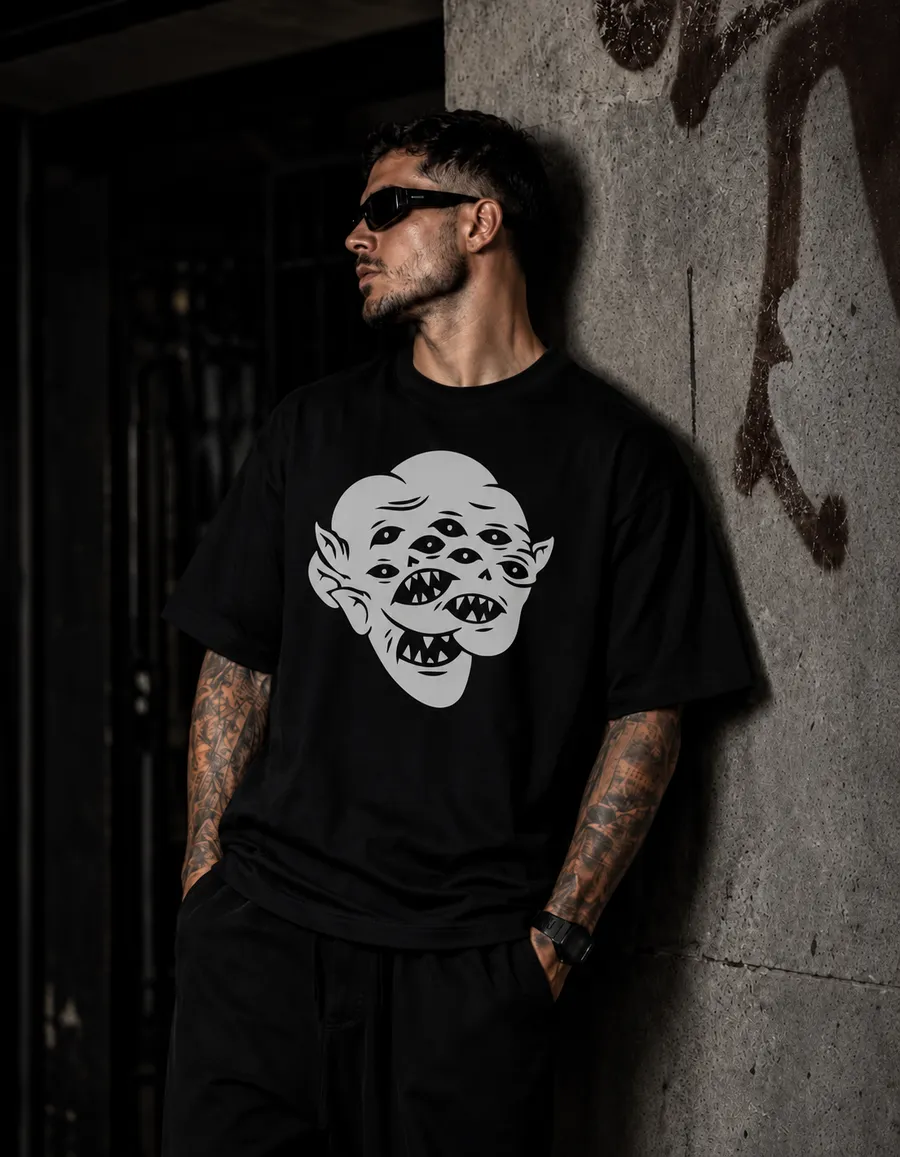
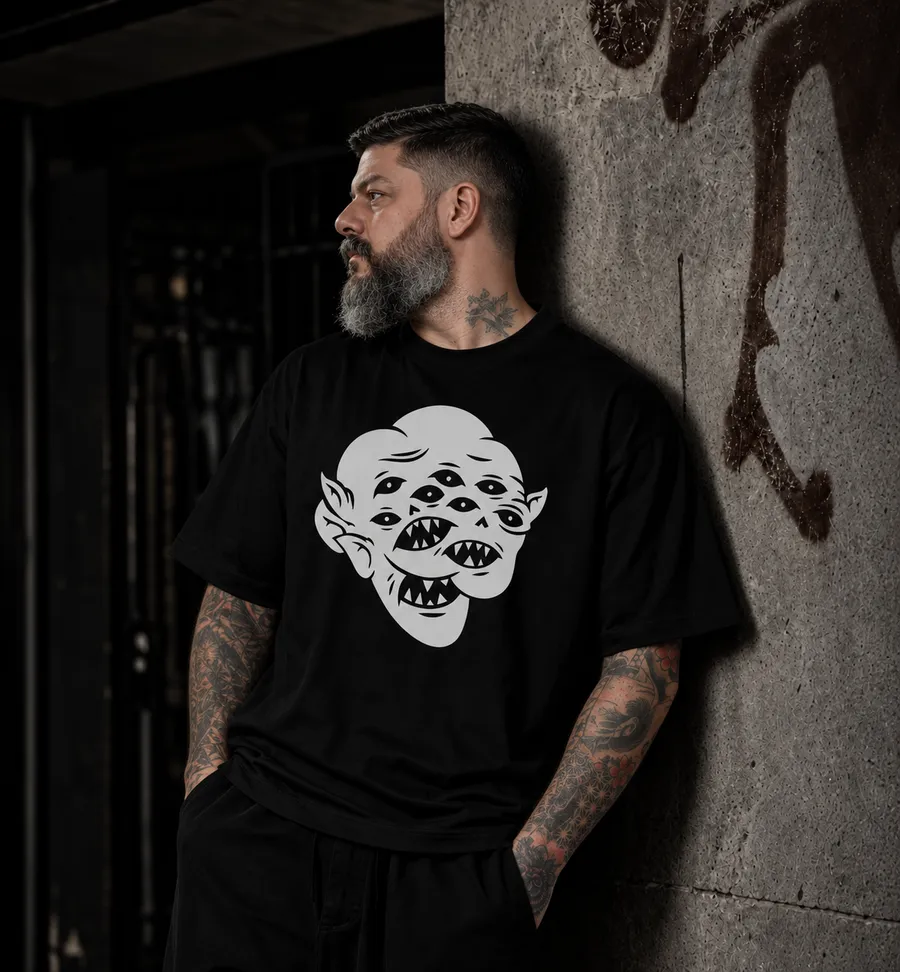
playground: a outra foto da camiseta do Monster na vaga 7

diff --git a/src/content/playground.ts b/src/content/playground.ts
@@ -32,8 +32,9 @@ export const PLAYGROUND: PecaPlayground[] = [
   { ratio: "2 / 3" },
   { ratio: "3 / 2" },
   // coluna 3
-  // 07: a camiseta do Monster, no corpo (17/10; original em _originais/playground/)
-  { ratio: "3 / 4", src: "/playground/tshirt-monster.webp", title: "Black Monster T-shirt worn by a man leaning on a concrete wall" },
+  // 07: a camiseta do Monster, no corpo (17/10; original em
+  // _originais/playground/tshirt-monster2.png — a segunda foto, que ficou)
+  { ratio: "3 / 4", src: "/playground/tshirt-monster.webp", title: "Black Monster T-shirt worn by a bearded, tattooed man leaning on a concrete wall" },
   { ratio: "4 / 3" },
   { ratio: "1 / 1" },
   // coluna 4
